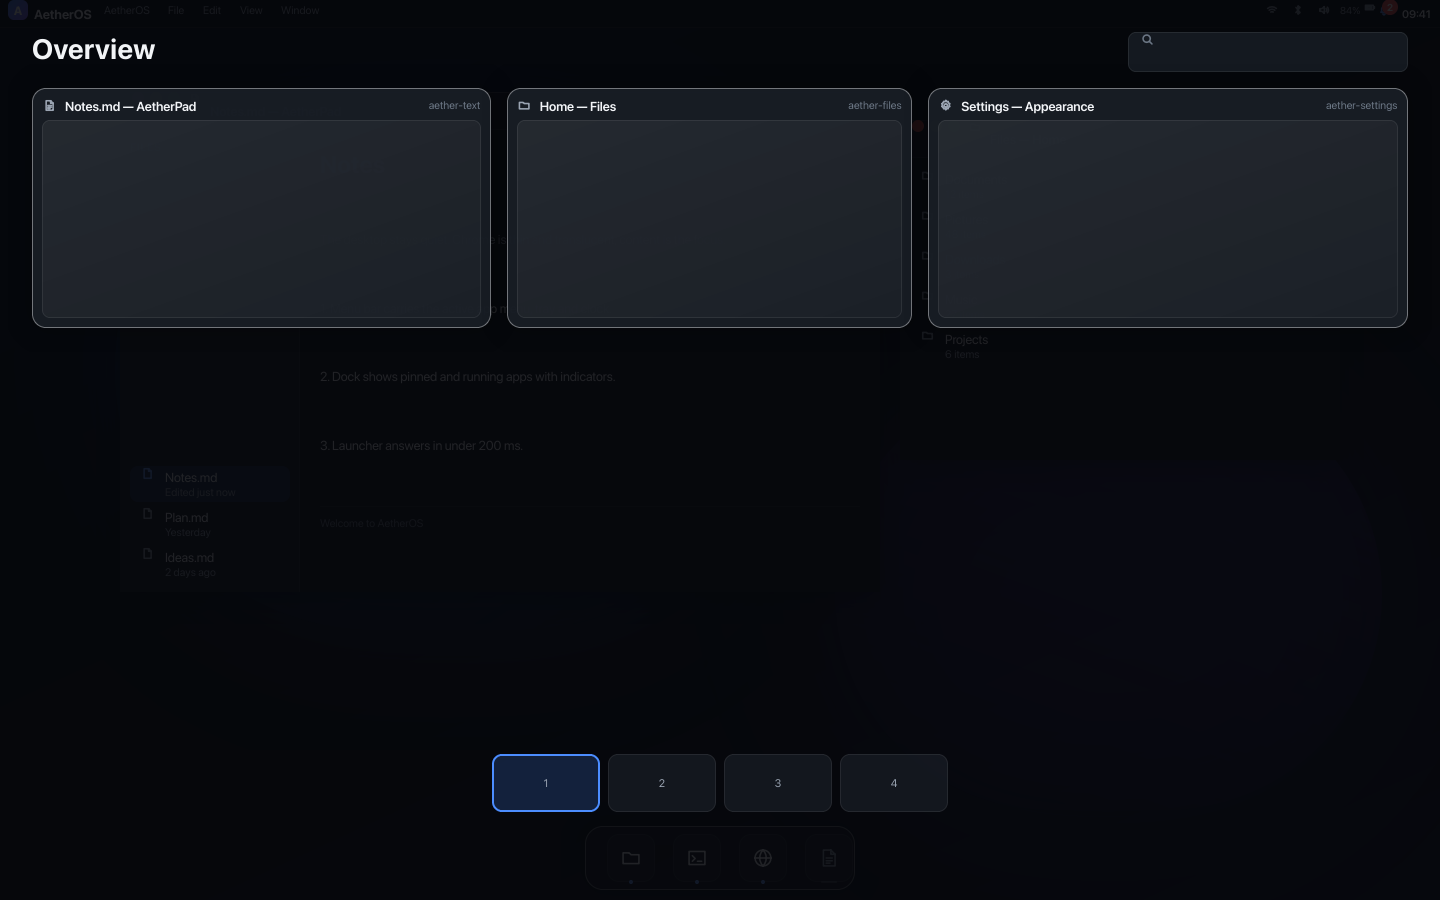
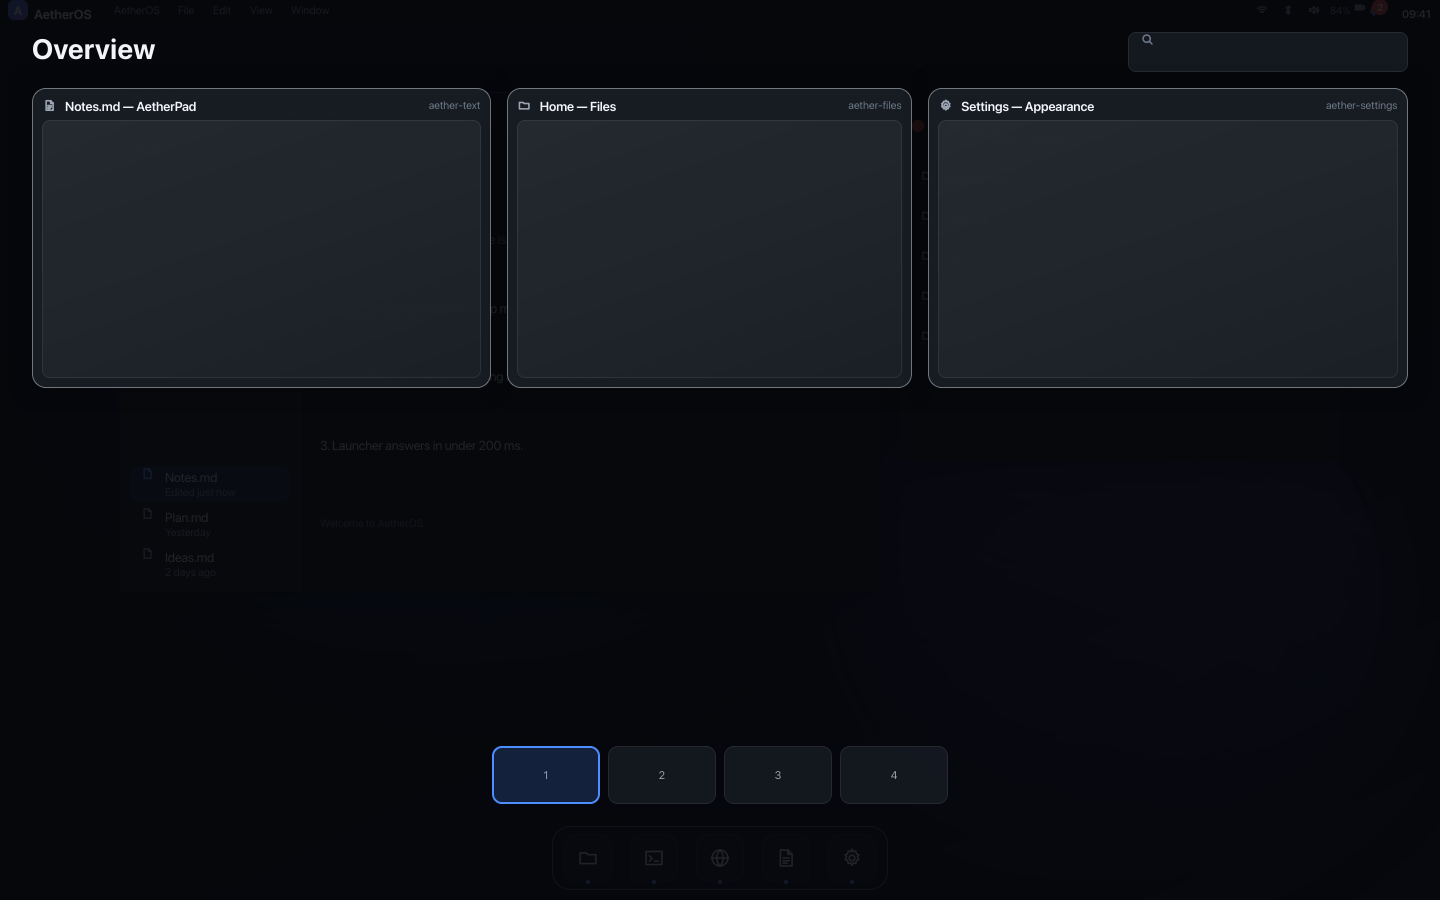
P4 shell: real clock at startup, deterministic demo clock, overview card sizing

diff --git a/shell/src/app.rs b/shell/src/app.rs
@@ -156,6 +156,10 @@ impl ShellController {
     ) -> Rc<ShellController> {
         let mut state = ShellState::default();
         state.apps = desktop::merged_apps(desktop::scan_default());
+        // Start with the real time; the host's minute timer keeps it fresh.
+        let now = chrono::Local::now();
+        state.clock = model::format_clock(&now);
+        state.date_label = model::format_date(&now);
 
         let controller = Rc::new(ShellController {
             state: RefCell::new(state),
@@ -192,6 +196,9 @@ impl ShellController {
             }
             state.settings_page = 1;
             state.settings_rows = controller.store.rows_for(Category::Display);
+            // Deterministic clock for reproducible evidence screenshots.
+            state.clock = "09:41".to_string();
+            state.date_label = "Monday, 23 November".to_string();
         }
         controller.sync();
         controller
